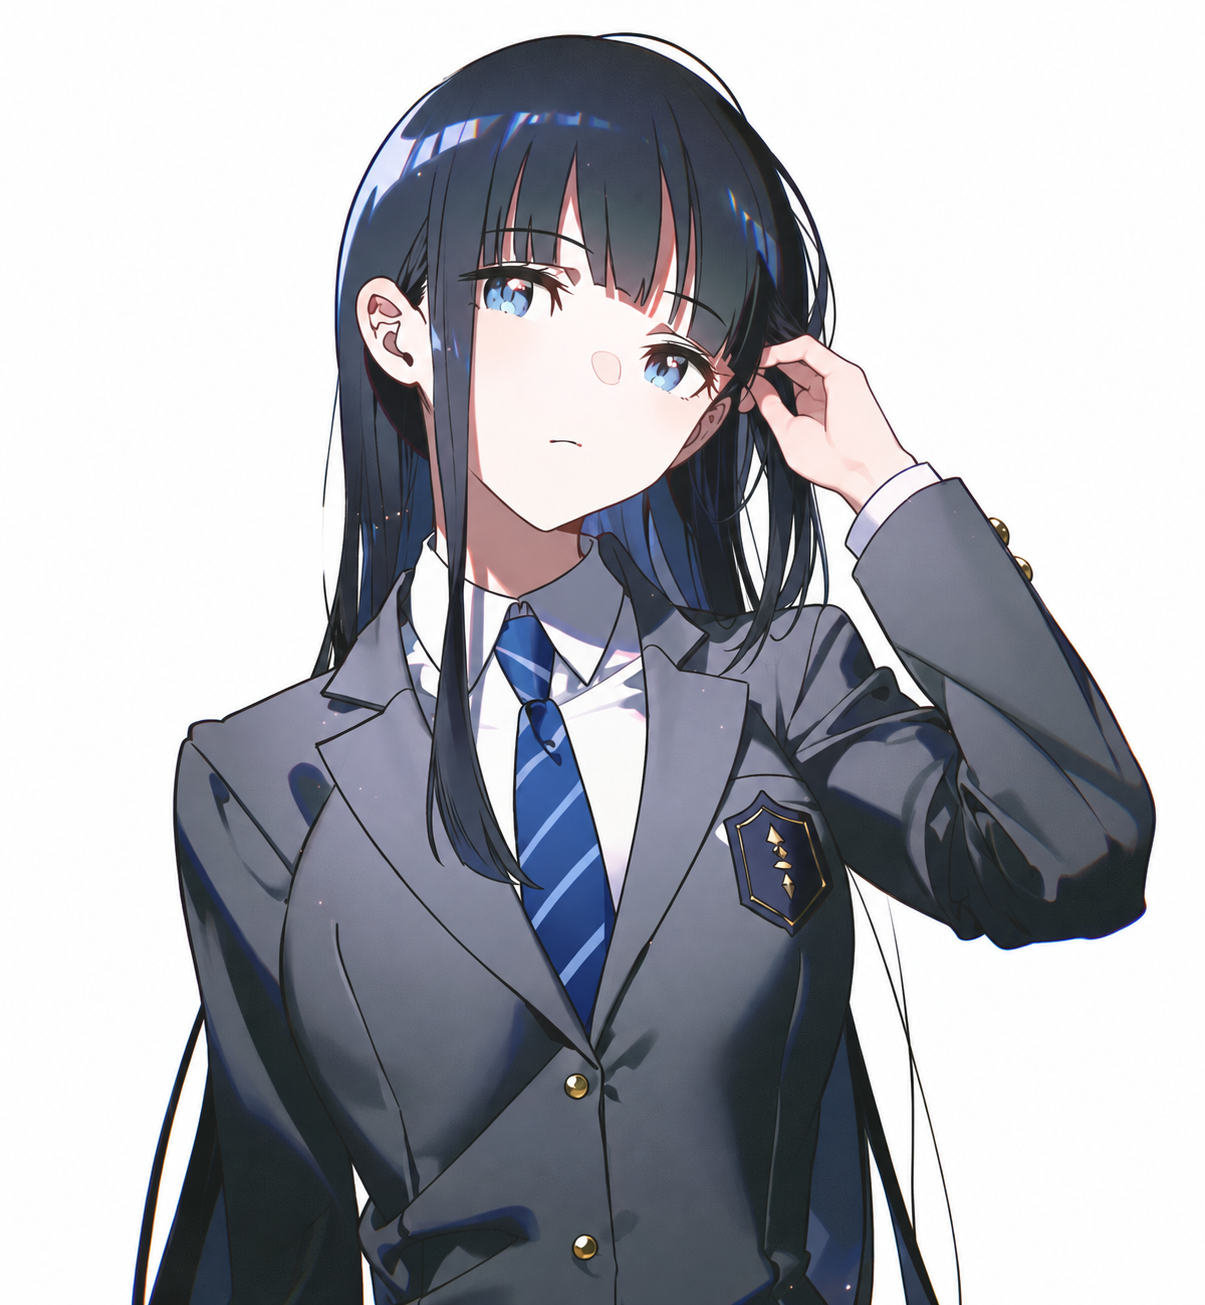
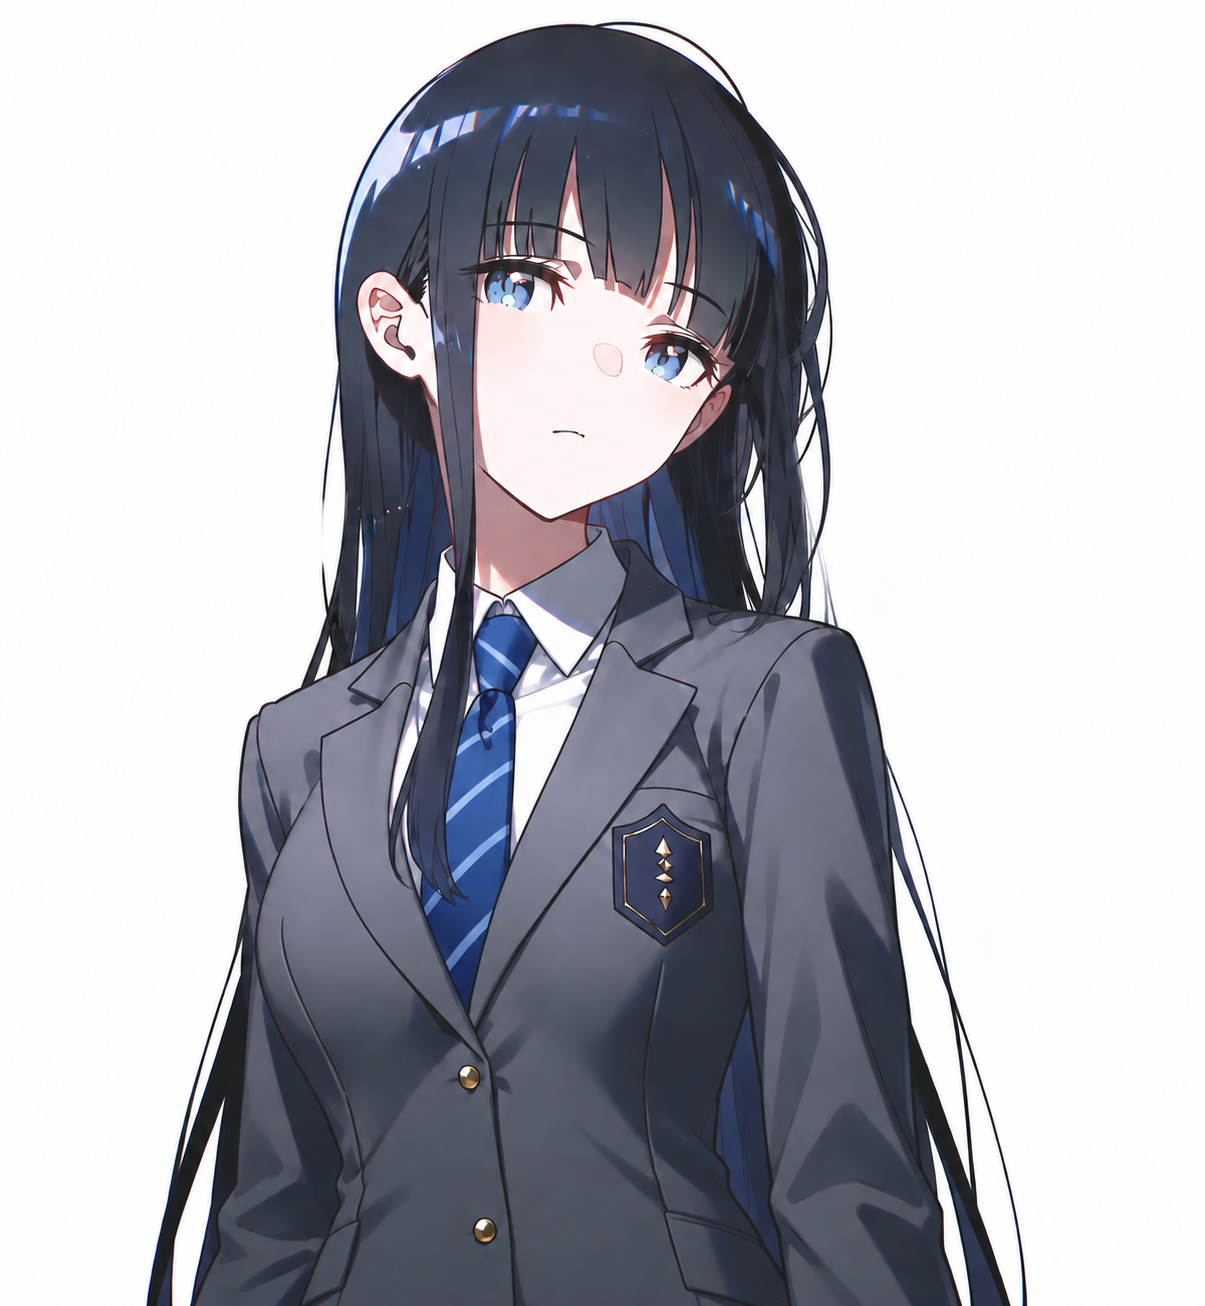
Update 冬马和纱 default portrait

diff --git a/images/portraits/white2/touma-kazusa/README.md b/images/portraits/white2/touma-kazusa/README.md
@@ -1,9 +1,9 @@
 # 冬马和纱 · 常规立绘
 
 - 当前文件：[default.png](default.png)。
-- 用户选定原图：`3651-touma-kazusa-A-handfix-waist-20260913.png`。
-- 尺寸：1205 × 1305；大小：1,618,746 字节。
[1 lines of base64/hex data omitted]
+- 用户选定原图：`3651-touma-kazusa-A-tailored-waist-v6-20260913.png`。
+- 尺寸：1205 × 1306；大小：1,498,459 字节。
[1 lines of base64/hex data omitted]
 - PNG 模型记录：未知。
 - 可读取的生成参数：seed 未知；steps 未知；scale 未知；cfg_rescale 未知；sampler 未知；noise_schedule 未知。
 - 原图字节及内嵌数据完整保留，没有裁切、缩放、抠图或重新编码。
